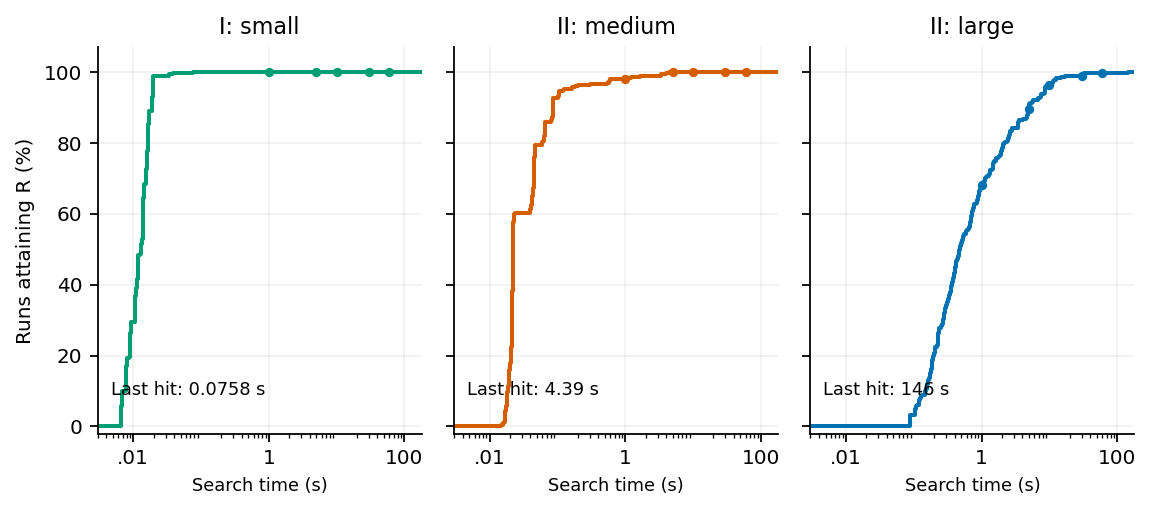
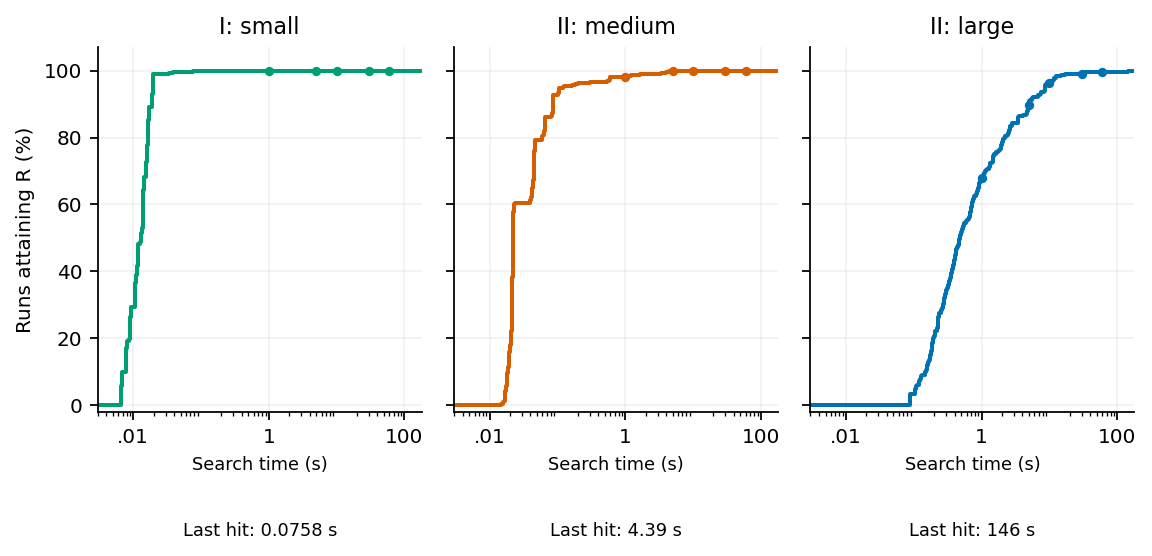
Clarify English presentation assets and independent timing protocols

diff --git a/paper_assets/en/appendix_results.tex b/paper_assets/en/appendix_results.tex
@@ -3,7 +3,7 @@
 \section{Full per-instance comparison}
 \label{app:full-results}
 {BKV and literature results are from Wei et al.~\cite{Wei2026ANRMA}. Best is the best value and Mean the per-instance mean; these coincide in the ten GPU-MTS runs, with $\mathrm{std}(f)=0$. Bold identifies the largest Best and Mean, including ties. Average summarizes the 30 instances in each group.}
-\begingroup\footnotesize\setlength{\tabcolsep}{2.5pt}\renewcommand{\arraystretch}{.88}
+\begingroup\fontsize{9}{10.5}\selectfont\setlength{\tabcolsep}{2.5pt}\renewcommand{\arraystretch}{.88}
 \begin{longtable}{lrrrrrrrrrrr}
 \caption{{Quality for set I: 30 small instances. Best and Mean per method; bold indicates the best results.}}\label{tab:full-c1}\\
 \toprule
@@ -47,7 +47,7 @@ Instance & BKV & \multicolumn{2}{c}{GPU-MTS} & \multicolumn{2}{c}{PLTS} & \multi
 \midrule
 Average & 92290.50 & \textbf{92290.50} & \textbf{92290.50} & 91957.83 & 91637.50 & \textbf{92290.50} & 91981.00 & \textbf{92290.50} & 92275.27 & \textbf{92290.50} & \textbf{92290.50}\\
 \end{longtable}\endgroup\clearpage
-\begingroup\footnotesize\setlength{\tabcolsep}{2.5pt}\renewcommand{\arraystretch}{.88}
+\begingroup\fontsize{9}{10.5}\selectfont\setlength{\tabcolsep}{2.5pt}\renewcommand{\arraystretch}{.88}
 \begin{longtable}{lrrrrrrrrrrr}
 \caption{{Quality for set II: 30 medium instances. Best and Mean per method; bold indicates the best results.}}\label{tab:full-c2}\\
 \toprule
@@ -91,7 +91,7 @@ Instance & BKV & \multicolumn{2}{c}{GPU-MTS} & \multicolumn{2}{c}{PLTS} & \multi
 \midrule
 Average & 174130.00 & \textbf{174130.00} & \textbf{174130.00} & 172471.63 & 171196.07 & 174048.87 & 173212.77 & \textbf{174130.00} & 174102.13 & 174124.93 & 174123.40\\
 \end{longtable}\endgroup\clearpage
-\begingroup\footnotesize\setlength{\tabcolsep}{2.5pt}\renewcommand{\arraystretch}{.88}
+\begingroup\fontsize{9}{10.5}\selectfont\setlength{\tabcolsep}{2.5pt}\renewcommand{\arraystretch}{.88}
 \begin{longtable}{lrrrrrrrrrrr}
 \caption{{Quality for set II: 30 large instances. Best and Mean per method; bold indicates the best results.}}\label{tab:full-c2-large}\\
 \toprule
@@ -139,7 +139,7 @@ Average & 2043883.37 & \textbf{2044036.53} & \textbf{2044036.53} & 1967744.97 & 
 \label{app:full-times}
 {Literature data are from Wei and Hao~\cite{Wei2023IHS} (PLTS and IHS) and Wei et al.~\cite{Wei2026ANRMA} (ANRMA). VDLS does not provide comparable times. GPU-MTS uses ten runs per instance. The Average row is the arithmetic mean of the 30 per-instance statistics in each column.}
 
-\footnotesize\setlength{\tabcolsep}{4pt}\renewcommand{\arraystretch}{.88}
+\fontsize{9}{10.5}\selectfont\setlength{\tabcolsep}{4pt}\renewcommand{\arraystretch}{.88}
 \begin{longtable}{lrrrrrrrrr}
 \caption{Dispersion and timing: I: small instances. Time: mean to the final result; $\mathrm{std}(f)$ and $\mathrm{std}(t)$: objective and time standard deviations; $H_i$: budget (s). GPU-MTS: $\mathrm{std}(f)=0$, $n=10$.}\\
 \toprule
@@ -183,7 +183,7 @@ Instance & \multicolumn{2}{c}{PLTS} & \multicolumn{2}{c}{IHS} & \multicolumn{2}{
 \midrule
 Average & 222 & 257 & 15.6 & 44.8 & 0 & 1.30 & -- & 0.0130 & 0.00116\\
 \end{longtable}\clearpage
-\footnotesize\setlength{\tabcolsep}{4pt}\renewcommand{\arraystretch}{.88}
+\fontsize{9}{10.5}\selectfont\setlength{\tabcolsep}{4pt}\renewcommand{\arraystretch}{.88}
 \begin{longtable}{lrrrrr}
 \caption{Dispersion and timing: II: medium instances. Time: mean to the final result; $\mathrm{std}(f)$ and $\mathrm{std}(t)$: objective and time standard deviations; $H_i$: budget (s). GPU-MTS: $\mathrm{std}(f)=0$, $n=10$.}\\
 \toprule
@@ -227,7 +227,7 @@ Instance & \multicolumn{2}{c}{ANRMA} & \multicolumn{3}{c}{GPU-MTS}\\
 \midrule
 Average & 8.27 & 41.9 & -- & 0.0967 & 0.0828\\
 \end{longtable}\clearpage
-\footnotesize\setlength{\tabcolsep}{4pt}\renewcommand{\arraystretch}{.88}
+\fontsize{9}{10.5}\selectfont\setlength{\tabcolsep}{4pt}\renewcommand{\arraystretch}{.88}
 \begin{longtable}{lrrrrr}
 \caption{Dispersion and timing: II: large instances. Time: mean to the final result; $\mathrm{std}(f)$ and $\mathrm{std}(t)$: objective and time standard deviations; $H_i$: budget (s). GPU-MTS: $\mathrm{std}(f)=0$, $n=10$.}\\
 \toprule

diff --git a/analysis/figures/en/draw_main_figures.py b/analysis/figures/en/draw_main_figures.py
@@ -14,15 +14,15 @@ BLUE=BLACK='#000000'
 groups=[('I','I: small'),('II_medium','II: medium'),('II_large','II: large')]
 A=json.loads((DATA/'analysis.json').read_text(encoding='utf-8'))
 plt.rcParams.update({'font.family':'DejaVu Sans','font.size':9,'pdf.fonttype':42,'axes.spines.top':False,'axes.spines.right':False})
-fig,axes=plt.subplots(1,3,figsize=(7.2,3.5),sharex=True,sharey=True)
+fig,axes=plt.subplots(1,3,figsize=(7.2,3.8),sharex=True,sharey=True)
 for ax,c,(g,label),color in zip(axes,A['attainment'],groups,['#009E73','#D55E00','#0072B2']):
     tt=c['times'];ax.step([.003]+tt+[180],[0]+list(np.arange(1,301)/3)+[100],where='post',color=color,lw=1.8)
     for cut in [1,5,10,30,60]:
         y=sum(t<=cut for t in tt)/3;ax.plot(cut,y,'o',ms=3.2,color=color)
     ax.set_xscale('log');ax.set_xlim(.003,180);ax.set_ylim(-2,107);ax.set_xticks([.01,1,100]);ax.set_xticklabels(['.01','1','100']);ax.grid(alpha=.16);ax.set_title(label,color=BLUE,fontsize=10);ax.set_xlabel('Search time (s)',color=BLUE,fontsize=8)
-    ax.text(.04,.10,f'Last hit: {max(tt):.3g} s',transform=ax.transAxes,fontsize=8,color=BLUE)
+    ax.text(.5,-.34,f'Last hit: {max(tt):.3g} s',transform=ax.transAxes,ha='center',fontsize=8,color=BLUE,clip_on=False)
 axes[0].set_ylabel('Runs attaining R (%)',color=BLUE,fontsize=9)
-fig.subplots_adjust(top=.88,bottom=.19,left=.09,right=.99,wspace=.10)
+fig.subplots_adjust(top=.90,bottom=.30,left=.09,right=.99,wspace=.10)
 fig.savefig(O/'fig_attainment.pdf',bbox_inches='tight');fig.savefig(W/'fig_attainment.png',dpi=160,bbox_inches='tight');plt.close(fig)
 D=json.loads((DATA/'ablation.json').read_text(encoding='utf-8'))
 variants=['base','no_local_search','no_tabu_filter','no_swaps','positive_moves_only','restart_best_only','restart_empty_only']

diff --git a/paper_assets/en/table_hyperparameters.tex b/paper_assets/en/table_hyperparameters.tex
@@ -15,7 +15,7 @@ $K$ & Maximum outgoing candidates & 4 & $\{1,2,4,8\}$\\
 $S_{\mathrm{max}}$ & Non-improving accepted moves before perturbation & 300 & $\{75,150,300,600,1200\}$\\
 $T$ & Construction and reconstruction temperature & 0.03 & $\{0,0.01,0.03,0.10\}$\\
 $D$ & Deletion-probability interval, $d\sim\mathcal U(D)$ & $[0.12,0.70]$ & $[0.02,0.60]$, $[0.12,0.70]$, $[0.22,0.80]$, $[0.31,0.51]$, $[0.41,0.41]$\\
-$p_0$ & Empty-restart probability & $\approx0.20$ & Fixed\\
+$p_0$ & Empty-restart probability & $0.2$ & Fixed\\
 $M_h$ & Fingerprints per trajectory hash table & $16\,384$ & Fixed\\
 \midrule
 \multicolumn{4}{@{}l}{\textit{Execution and observation settings}}\\
@@ -25,6 +25,6 @@ $\delta$ & Target batch duration & 20 ms & Fixed\\
 \bottomrule
 \end{tabular}
 \par\smallskip
-\parbox{.97\linewidth}{\footnotesize The OFAT grid contains 18 configurations, including Baseline, varying one parameter at a time. Local search, exchanges, tabu admissibility, and perturbation remain enabled. The CPU/GPU study fixes one step per launch. The data repository specifies the budgets and seeds of each experiment. An empty restart uses the zero residue modulo five of a 64-bit pseudorandom integer.}
+\parbox{.97\linewidth}{\footnotesize The OFAT grid contains 18 configurations, including Baseline, varying one parameter at a time. Local search, exchanges, tabu admissibility, and perturbation remain enabled. The CPU/GPU study fixes one step per launch. The data repository specifies the budgets and seeds of each experiment.}
 
 \end{table}

diff --git a/paper_assets/en/table_timing.tex b/paper_assets/en/table_timing.tex
@@ -1,6 +1,6 @@
 \begin{table}[tbp]
 \centering\small
-\caption{Search times in the benchmark budget groups. The literature target is $\mathrm{BKV}_i$; the final best equals $R_i$. Time columns average runs within each cohort; Maximum is the largest attainment time. Preparation is excluded.}
+\caption{Search times in the benchmark budget groups. The literature target is $\mathrm{BKV}_i$; the final best equals $R_i$. Time columns average runs within each budget group; Maximum is the largest attainment time. Preparation is excluded.}
 \label{tab:timing-cohorts}
 \begin{tabular}{rrrrr}
 \toprule

diff --git a/paper_assets/en/table_platform_quality.tex b/paper_assets/en/table_platform_quality.tex
@@ -1,6 +1,6 @@
 \begin{table}[tbp]
 \centering\small
-\caption{Quality and time to the fixed own target under equal H. Capped means assign H to failures; conditional means use the indicated hits only. Targets: D1=1901868, D3=162514, D5=92740; H=180/90/90 s.}
+\caption{Quality and time to the prespecified target under a common time budget per case. Capped means assign the budget $H$ to unsuccessful runs; conditional means use successful runs only. Targets: D1=1901868, D3=162514, D5=92740; $H=180/90/90$~s, respectively.}
 \label{tab:platform-quality}
 \begin{tabular}{llrrrr}
 \toprule

diff --git a/paper_assets/en/appendix_diagnostics.tex b/paper_assets/en/appendix_diagnostics.tex
@@ -3,7 +3,7 @@
 Tables~\ref{tab:diagnostic-cases} and \ref{tab:ofat} document diagnostic cases and all exploratory parameter configurations.
 \begin{table}[H]
 \centering\small
-\caption{Identifiers, budgets, and fixed own targets. D1,D3,D5 are the three focused cases. V1--V6 are main-experiment cases excluded from parameter tuning.}
+\caption{Identifiers, budgets, and prespecified targets. D1,D3,D5 are the three focused cases. V1--V6 are main-experiment cases excluded from parameter tuning.}
 \label{tab:diagnostic-cases}
 \begin{tabular}{llrr}
 \toprule

diff --git a/docs/TIMING_PROTOCOLS.md b/docs/TIMING_PROTOCOLS.md
@@ -1,0 +1,17 @@
+# Fixed-work timing in two independent experiments
+
+The platform comparison and exact owner/incidence comparison use the baseline algorithm with 128 trajectories, one-step observation batches, and 139/512/512 steps per trajectory on D1/D3/D5. They are separate experiments with separate seed sets and host measurement endpoints.
+
+| Case | Platform GPU mean (s) | Owner-lookup mean (s) | Difference |
+|---|---:|---:|---:|
+| D1 | 0.7302333000 | 0.8168617900 | 11.8631% |
+| D3 | 0.3142489000 | 0.3364233600 | 7.0563% |
+| D5 | 0.1503578900 | 0.1595295800 | 6.0999% |
+
+The platform experiment uses seeds 2026100601–2026100610. Its checkpoint time is observed after the kernel and state transfer, before any incumbent transfer and verification triggered by that observation. The run then continues to its time budget. The owner/incidence experiment uses seeds 2026092201–2026092210 and records elapsed time after completing the fixed-step loop, including any incumbent verification triggered by the last observation. Preparation, warmup, and final independent certification are outside both measurements.
+
[1 lines of base64/hex data omitted]
+
+The records do not decompose the observed difference into seed effects, measurement overhead, or device-state variation. The table above is therefore descriptive, not a causal estimate of any one source of overhead. The reported speed ratios are computed from paired observations within each experiment. In the owner/incidence experiment, final arrays and incumbent sequences match within each evaluated pair.
+
+Sources: `data/diagnostics/platform_comparison_v1/results_compact.jsonl.gz`, `analysis/figures/platform_analysis.json`, `data/owner_lookup/results.jsonl`, and `data/owner_lookup/analysis.json`. No experimental records or numerical results were changed for this clarification.

diff --git a/README.md b/README.md
@@ -41,8 +41,10 @@ Outputs are written to `runs/`. The analysis recomputes statistics from the 900 
 - `data/PUBLIC_EXPORT_MANIFEST.json`: source and export hashes; absolute local paths in metadata are replaced with relative identifiers. Numerical results are unchanged.
 - `docs/REPRODUCIBILIDAD.md`: definitions, timing scopes, study scope, and preparation costs (in Spanish).
 
-The solver code is maintained in a private repository. This public repository contains verification and analysis tools; it excludes the solver's CUDA and CPU/OpenMP implementations, manuscripts, and credentials. No license is assigned here to third-party instances or published reference data; their sources are retained.
+The public deposit supports independent verification of the reported solutions and reproduction of the analyses, figures, and tables. It includes the corresponding Python tools; the CUDA and CPU/OpenMP solver implementations are maintained separately. Original sources and provenance are retained for third-party instances and published reference data.
 
 ## Correspondence with the manuscript figures
 
 The labels **Base** (Spanish) and **Baseline** (English) denote the configuration identified as `original` or `base` in the experimental records. Archived identifiers and numerical data remain unchanged. Figures contain axes, legends, and data annotations; the manuscript captions describe the comparison conditions. Files in `paper_assets/es` and `paper_assets/en` correspond to the manuscript revision dated September 21, 2026.
+
+The English attainment figure places last-hit annotations below each panel so that they do not cover any curve. The timing protocols of the platform and owner-lookup experiments are compared in [TIMING_PROTOCOLS.md](docs/TIMING_PROTOCOLS.md).
